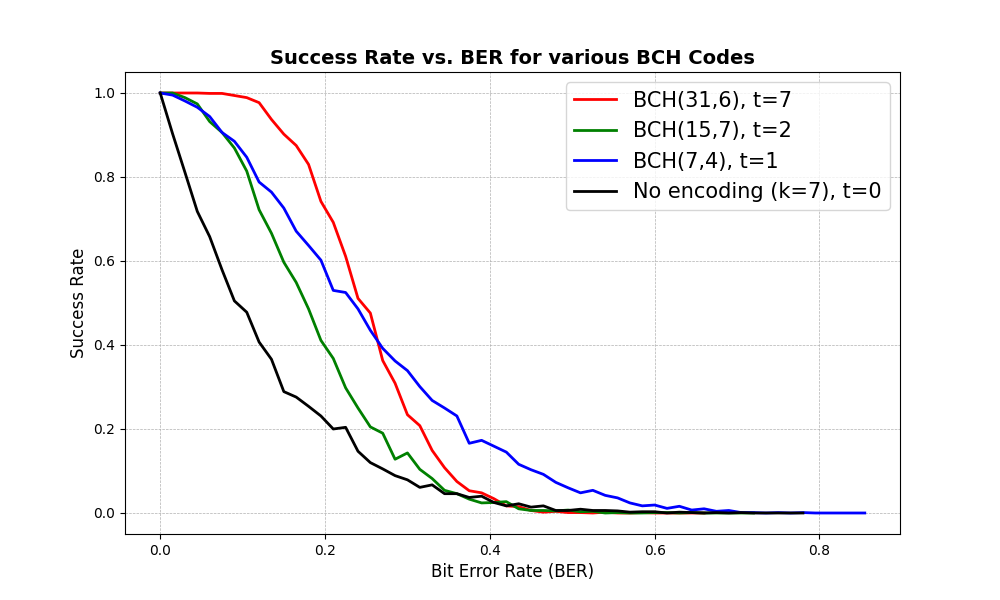
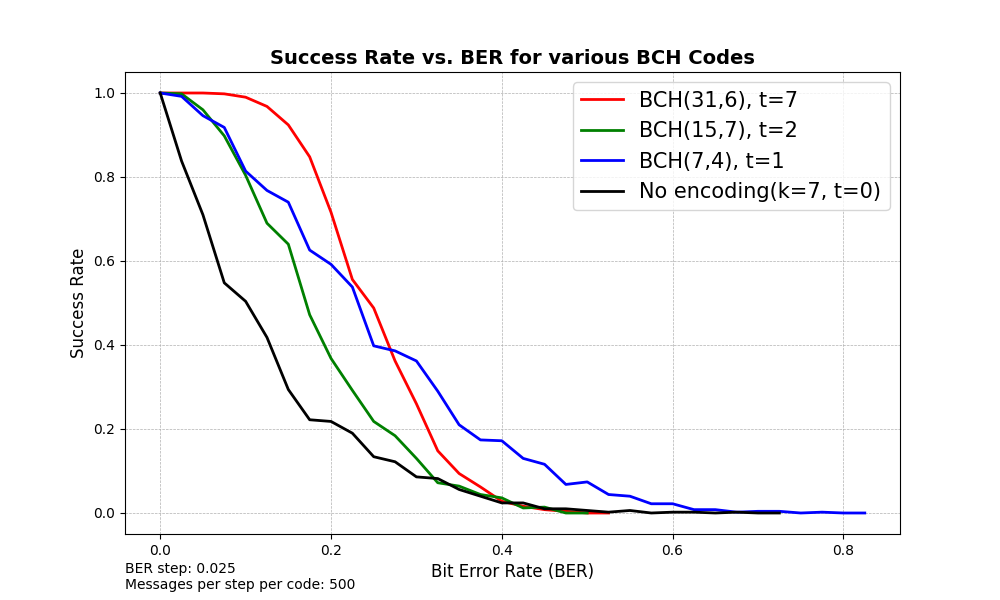
transmission plotter

diff --git a/transmission_simulation.py b/transmission_simulation.py
@@ -70,7 +70,8 @@ if __name__ == "__main__":
             total_epoch_time = time.perf_counter() - start_time
 
             print(
-                f"Code: BCH({n},{k})\t| BER: {ber:5.3} | Epoch: {current_step:4} / {int(Max_BER / BER_step):4} | Success rate: {success_rate:5.4} | Time: {total_epoch_time:5.3}s")
+                f"Code: BCH({n},{k})\t| BER: {ber:5.3} | Epoch: {current_step:4} / {int(Max_BER / BER_step):4}"
+                f" | Success rate: {success_rate:5.4} | Time: {total_epoch_time:5.3}s")
 
             # Early stopping
             if len(success_history) > patience_count and all(
@@ -114,7 +115,8 @@ if __name__ == "__main__":
             total_epoch_time = time.perf_counter() - start_time
 
             print(
-                f"Code: No encoding (k={k})\t| BER: {ber:5.3} | Epoch: {current_step:4} / {int(Max_BER / BER_step):4} | Success rate: {success_rate:5.4} | Time: {total_epoch_time:5.3}s")
+                f"Code: No encoding (k={k})\t| BER: {ber:5.3} | Epoch: {current_step:4} / {int(Max_BER / BER_step):4}"
+                f" | Success rate: {success_rate:5.4} | Time: {total_epoch_time:5.3}s")
 
             # Early stopping
             if len(success_history) > patience_count and all(
@@ -171,7 +173,7 @@ if __name__ == "__main__":
     plt.plot(bch7_4_BER_history, bch7_4_success_history, color='blue', linestyle='-', linewidth=2,
              label='BCH(7,4), t=1')
     plt.plot(baseline_BER_history, baseline_success_history, color='black', linestyle='-', linewidth=2,
-             label='No encoding, t=0')
+             label='No encoding(k=7, t=0)')
 
     plt.title("Success Rate vs. BER for various BCH Codes", fontsize=14, fontweight='bold')
     plt.xlabel("Bit Error Rate (BER)", fontsize=12)
@@ -180,6 +182,6 @@ if __name__ == "__main__":
     plt.legend(loc="upper right", prop={'size': 15})
 
     text = f"BER step: {BER_step}\nMessages per step per code: {message_sample_size}"
-    plt.annotate(text, (0,0), (0, -20), xycoords='axes fraction', textcoords='offset points', va='top')
+    plt.annotate(text, (0, 0), (0, -20), xycoords='axes fraction', textcoords='offset points', va='top')
 
     plt.show()
